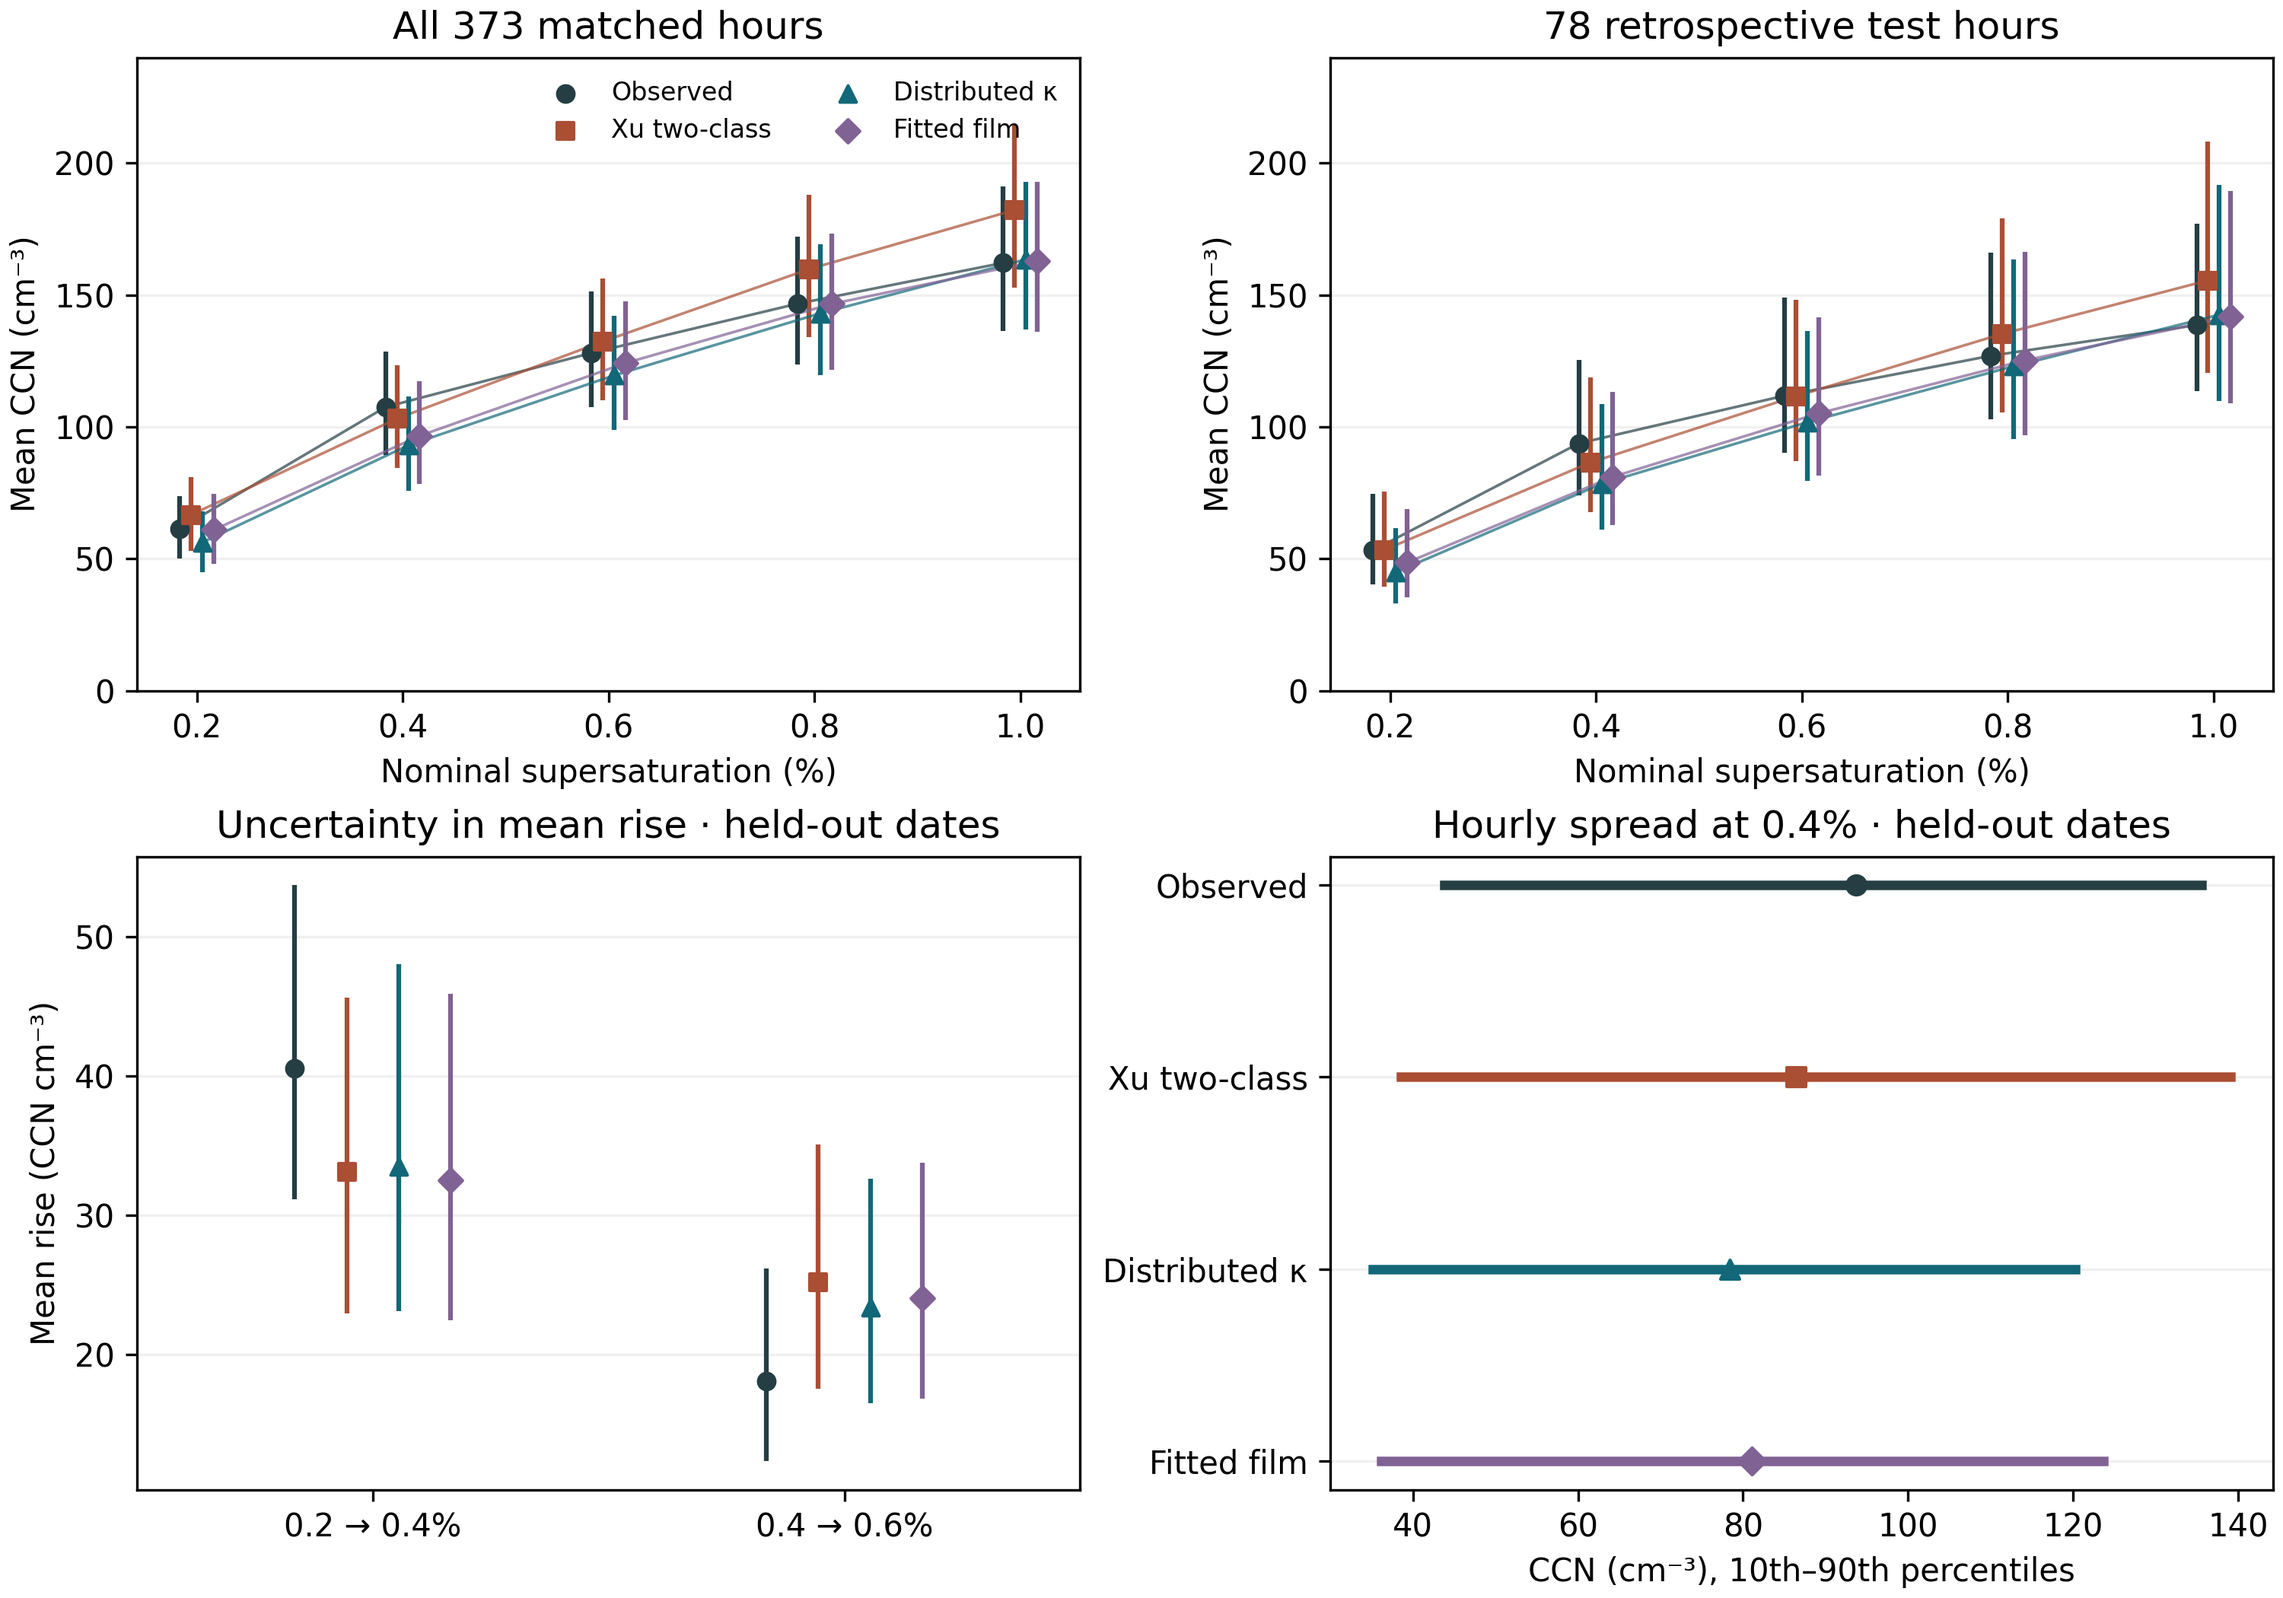
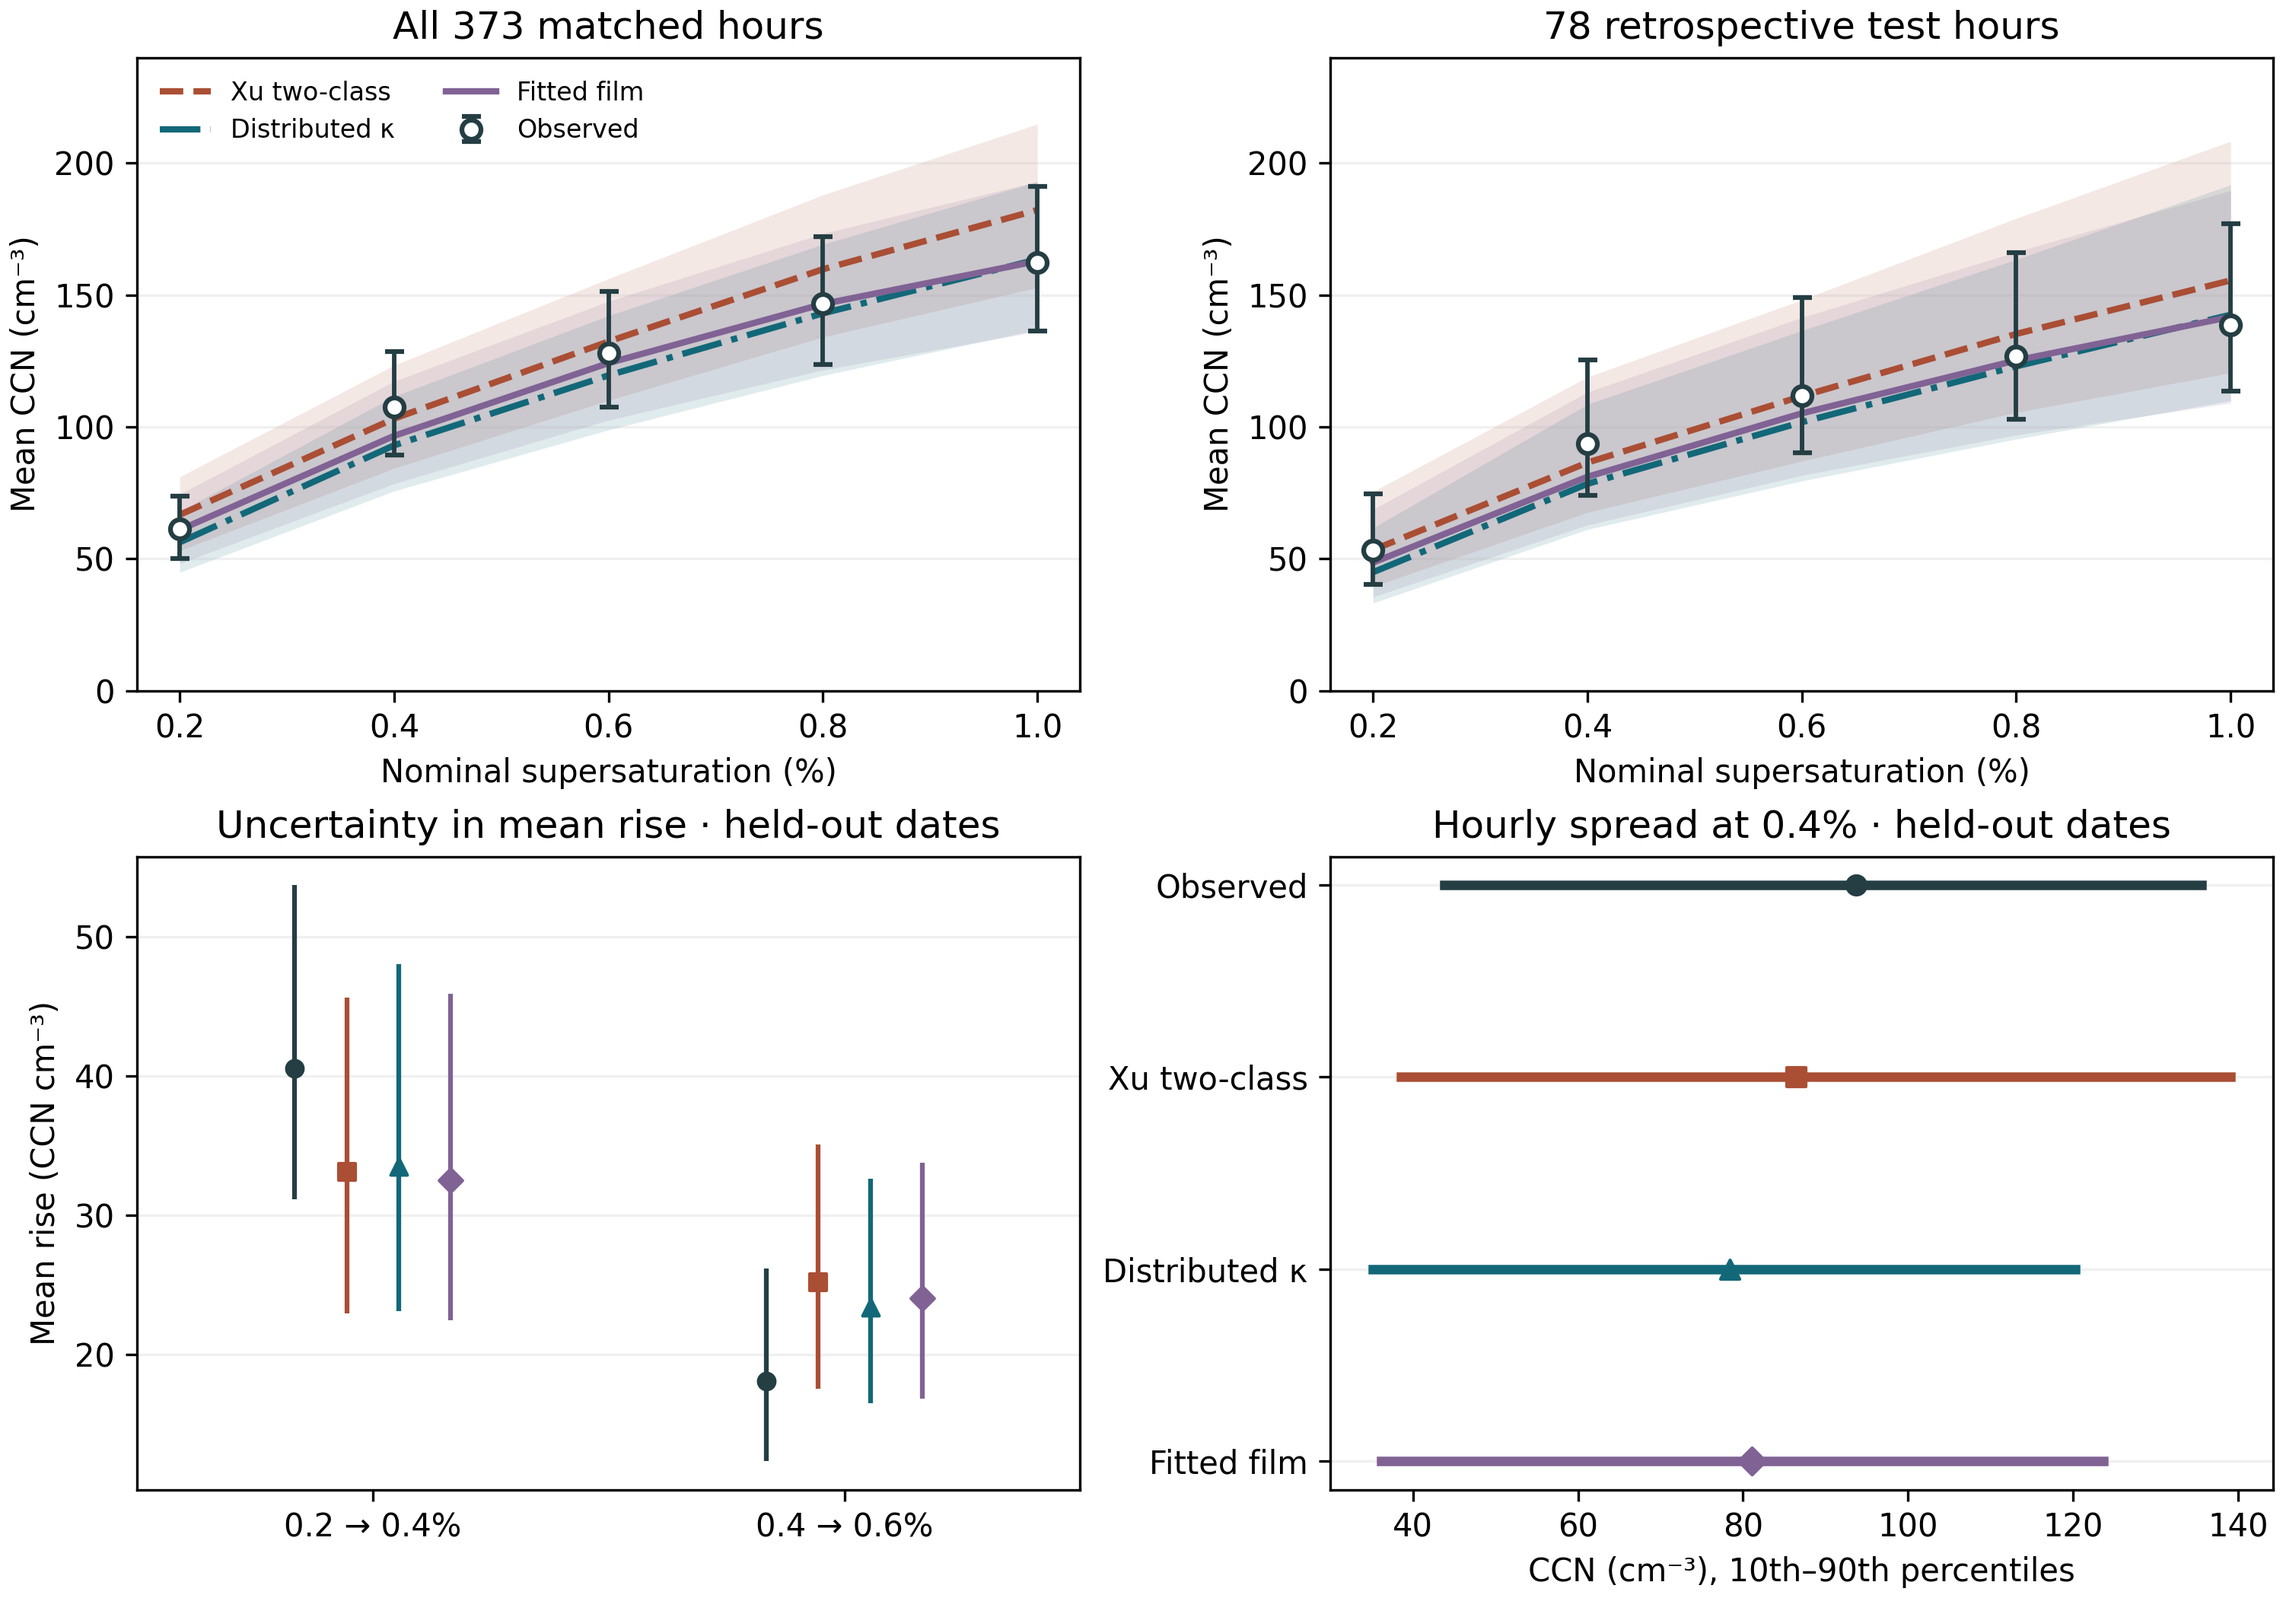
docs: distinguish Antarctic model intervals from measurements

diff --git a/scripts/antarctic_ccn/plots.py b/scripts/antarctic_ccn/plots.py
@@ -39,15 +39,52 @@ def spectrum(report):
         ],
         strict=False,
     ):
-        for j, (key, name, color, mark) in enumerate(STYLE):
-            rows = data[
-                (data["sample"] == sample) & (data.model == key)
-            ].set_index("metric")
-            x = np.arange(1, 6) * 0.2 + (j - 1.5) * 0.011
-            rows = rows.loc[["C2", "C4", "C6", "C8", "C10"]]
-            ax.plot(x, rows["mean"], color=color, lw=0.85, alpha=0.7)
-            for i, (_, r) in enumerate(rows.iterrows()):
-                whisker(ax, x[i], r, color, mark, name if i == 0 else None)
+        settings = np.arange(1, 6) * 0.2
+        panel = data[data["sample"] == sample].pivot(
+            index="model", columns="metric", values=["mean", "lo95", "hi95"]
+        )
+        metrics = ["C2", "C4", "C6", "C8", "C10"]
+        observed = panel.loc["measured"]
+        measured = observed["mean"][metrics].to_numpy()
+        ax.errorbar(
+            settings,
+            measured,
+            yerr=[
+                measured - observed["lo95"][metrics].to_numpy(),
+                observed["hi95"][metrics].to_numpy() - measured,
+            ],
+            fmt="o",
+            color=INK,
+            markerfacecolor="white",
+            markeredgewidth=1.5,
+            markersize=6,
+            elinewidth=1.4,
+            capsize=3,
+            zorder=5,
+            label="Observed",
+        )
+        for (key, name, color, _), linestyle in zip(
+            STYLE[1:], ["--", "-.", "-"], strict=True
+        ):
+            model = panel.loc[key]
+            ax.fill_between(
+                settings,
+                model["lo95"][metrics],
+                model["hi95"][metrics],
+                color=color,
+                alpha=0.13,
+                linewidth=0,
+                zorder=1,
+            )
+            ax.plot(
+                settings,
+                model["mean"][metrics],
+                color=color,
+                linestyle=linestyle,
+                linewidth=2,
+                label=name,
+                zorder=3,
+            )
         ax.set(
             title=title,
             xlabel="Nominal supersaturation (%)",

diff --git a/docs/studies/literature/antarctic-ccn/uncertainty.py b/docs/studies/literature/antarctic-ccn/uncertainty.py
@@ -19,9 +19,10 @@ else:
 # %% [markdown]
 # ### The measured and predicted rises
 #
-# Points are hourly-weighted means. The whiskers resample whole dates and
-# refit the common film fraction. The lower right panel instead describes
-# the range of hourly concentrations in the retrospective test set.
+# Open circles show observed means. Colored lines show modeled means.
+# The observation bars and model shading are pointwise 95% intervals
+# from whole-date resampling and refitting. The lower right panel shows
+# the 10th–90th percentile spread of the individual held-out hours.
 # %%
 spectrum(report)
 plt.show()

diff --git a/website/results/antarctic-ccn-uncertainty/source.py b/website/results/antarctic-ccn-uncertainty/source.py
@@ -19,9 +19,10 @@ else:
 # %% [markdown]
 # ### The measured and predicted rises
 #
-# Points are hourly-weighted means. The whiskers resample whole dates and
-# refit the common film fraction. The lower right panel instead describes
-# the range of hourly concentrations in the retrospective test set.
+# Open circles show observed means. Colored lines show modeled means.
+# The observation bars and model shading are pointwise 95% intervals
+# from whole-date resampling and refitting. The lower right panel shows
+# the 10th–90th percentile spread of the individual held-out hours.
 # %%
 spectrum(report)
 plt.show()

diff --git a/docs/studies/literature/antarctic-ccn/index.md b/docs/studies/literature/antarctic-ccn/index.md
@@ -10,9 +10,9 @@ Between January 2023 and February 2024, Xu and colleagues measured coastal aeros
 
 Across the 373 hours on 104 dates with matched clean-sector observations, the measured mean rises were **46.06** and **20.50 CCN/cm³** on either side of 0.4%. A calculation using the full measured distribution of hygroscopicity at each dry size predicted **36.76** and **26.52**. Xu’s two classes came closer to the absolute 0.4% mean, **103.12** against **107.51 CCN/cm³** observed. Neither benchmark reproduced the full bend. The sequential settings also sampled air at different times within each hour. These increments compare counts across settings, and a changing aerosol population can contribute to them.
 
-![Five-setting CCN spectra on all matched hours and on the retrospective test dates, with uncertainty in the simulated means and the spread among individual held-out hours.](../../../../website/results/antarctic-ccn-uncertainty/figure-2-1.png)
+![Five-setting CCN spectra on all matched hours and on the retrospective test dates, with measured means shown as open circles and capped bars, simulated means as lines with shaded intervals, and hourly spread shown separately.](../../../../website/results/antarctic-ccn-uncertainty/figure-2-1.png)
 
-*Figure 1.* Each model samples the same dates and size distributions as the observations in its panel. Pointwise 95% intervals describe uncertainty in a mean when whole dates are resampled. The separate 10th–90th percentile range describes variability across individual hours on the 26 test dates, holding the nominal fit fixed. For the fitted film at 0.4%, the mean was 81.1 CCN/cm³ (95% date interval 62.8–113.1). The middle 80% of individual simulated hours ranged from 36.2 to 123.7 CCN/cm³. Markers are offset slightly along the supersaturation axis for readability.
+*Figure 1.* Each model samples the same dates and size distributions as the observations in its panel. Open circles and capped bars show measured means and their pointwise 95% whole-date bootstrap intervals. Colored lines and shaded bands show the corresponding model means and intervals at the five counter settings. The separate 10th–90th percentile range describes variability across individual hours on the 26 test dates, holding the nominal fit fixed. For the fitted film at 0.4%, the mean was 81.1 CCN/cm³ (95% date interval 62.8–113.1). The middle 80% of individual simulated hours ranged from 36.2 to 123.7 CCN/cm³.
 
 ## Which dry particles could change the bend?
 
